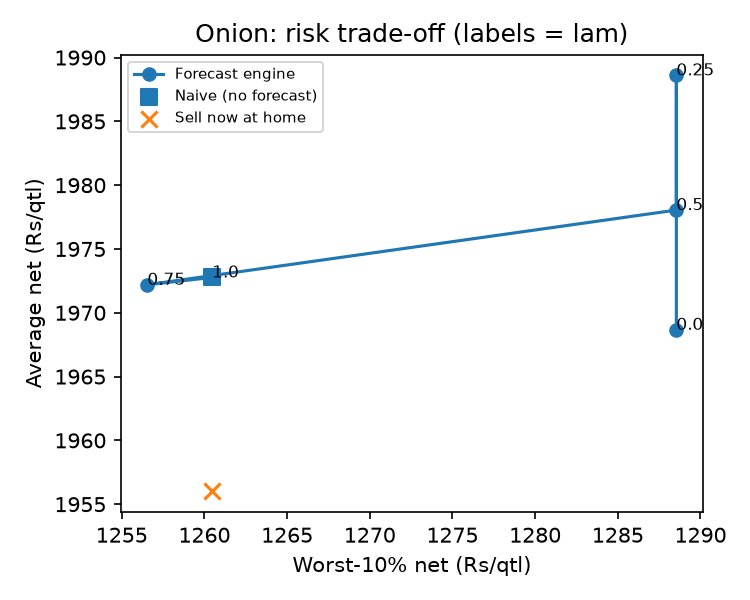
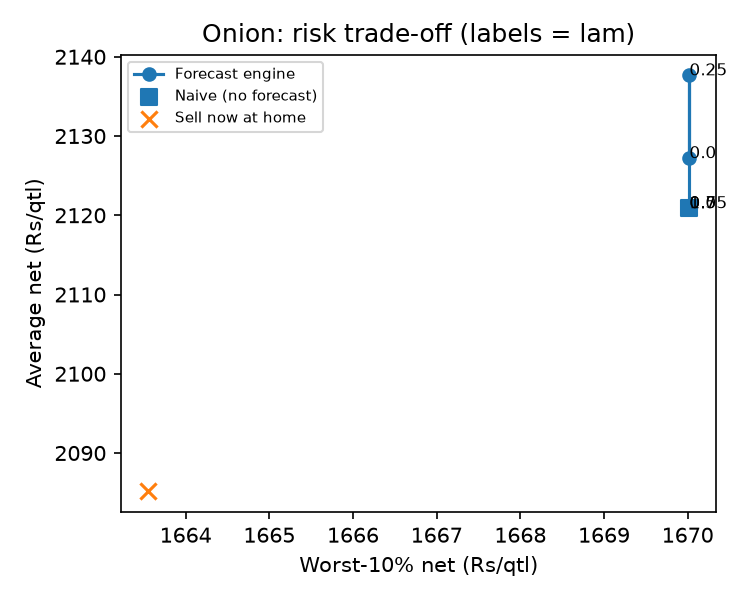
Updated of files

diff --git a/run_multi.py b/run_multi.py
@@ -1,0 +1,72 @@
+import re, glob, os, math, pandas as pd, numpy as np, runpy
+import src.config as C, src.db as db, src.realdata as rd
+
+HOME, RADIUS_KM, MIN_OBS, ROAD = "ALIGARH", 400, 400, 1.3   # edit HOME / RADIUS_KM as you like
+
+# Approximate city coordinates (lat, lon). Add more lines for markets that get reported as missing.
+COORDS = {"DELHI":(28.61,77.21),"ALIGARH":(27.88,78.08),"AGRA":(27.18,78.01),"MUMBAI":(19.08,72.88),
+ "PUNE":(18.52,73.86),"LUCKNOW":(26.85,80.95),"BAREILLY":(28.37,79.43),"KOLHAPUR":(16.70,74.24),
+ "RAJKOT":(22.30,70.80),"SURAT":(21.17,72.83),"HUBLI":(15.36,75.12),"FARUKHABAD":(27.39,79.58),
+ "ETAWAH":(26.78,79.02),"DEORIA":(26.50,83.78),"MAINPURI":(27.23,79.02),"GURGAON":(28.46,77.03),
+ "FARIDABAD":(28.41,77.31),"KANPUR":(26.45,80.35),"JAIPUR":(26.91,75.79),"AHMEDABAD":(23.02,72.57),
+ "NASHIK":(20.00,73.79),"AMRITSAR":(31.63,74.87),"AJMER":(26.45,74.64),"ALWAR":(27.55,76.63),
+ "AHMEDNAGAR":(19.09,74.74),"AURANGABAD":(19.88,75.34),"ALLAHABAD":(25.44,81.85),"BALLIA":(25.76,84.15),
+ "ABOHAR":(30.14,74.19),"ASANSOL":(23.68,86.98),"LASALGAON":(20.14,74.23),"MEERUT":(28.98,77.71)}
+
+def key(name): return re.sub(r"\(.*?\)|[^A-Z ]", "", str(name).upper()).strip()
+def hav(a, b):
+    la1, lo1, la2, lo2 = map(math.radians, (*a, *b))
+    x = math.sin((la2-la1)/2)**2 + math.cos(la1)*math.cos(la2)*math.sin((lo2-lo1)/2)**2
+    return 6371 * 2 * math.asin(math.sqrt(x))
+def crop_name(fn):
+    w = os.path.basename(fn).lower().split("_")[0]
+    w = w[:-2] if w.endswith("oes") else (w[:-1] if w.endswith("s") else w)
+    return w.title()
+
+frames = []
+for p in glob.glob("data/real/*.csv"):
+    b = os.path.basename(p).lower()
+    if "_all_clean" in b or "case_study" in b: continue
+    df = pd.read_csv(p, low_memory=False)
+    find = lambda *k: next((c for c in df.columns if any(x in c.lower() for x in k)), None)
+    dc, mc, pc, ac = find("date"), find("market", "centre", "center"), find("modal"), find("arriv")
+    if not (dc and mc and pc):
+        print("SKIPPED (cannot find date/market/modal columns):", b, list(df.columns)); continue
+    frames.append(pd.DataFrame({
+        "date": pd.to_datetime(df[dc], format="mixed", dayfirst=True, errors="coerce"),
+        "market": df[mc].map(key), "modal": pd.to_numeric(df[pc], errors="coerce"),
+        "arrivals": pd.to_numeric(df[ac], errors="coerce") if ac else np.nan,
+        "commodity": crop_name(p)}))
+al = pd.concat(frames).dropna(subset=["date", "modal"])
+al = al.drop_duplicates(["commodity", "market", "date"])
+
+S, DIST, missing, dropped = {}, {}, set(), []
+for (c, m), g in al.groupby(["commodity", "market"]):
+    if len(g) < MIN_OBS: continue
+    if m not in COORDS: missing.add(m); continue
+    d = round(ROAD * hav(COORDS[HOME], COORDS[m]))
+    if d > RADIUS_KM: continue
+    DIST[m] = d
+    g = g.set_index("date").sort_index()[["modal", "arrivals"]]
+    n_obs = len(g)
+    g = g.asfreq("D").interpolate(method="time", limit=7).dropna(subset=["modal"])
+    g["arrivals"] = g["arrivals"].fillna(g["arrivals"].median())
+    g = g.rename(columns={"modal": "modal_price", "arrivals": "arrivals_qtl"})
+    g["rainfall_mm"] = 0.0; g.index.name = "date"; g.attrs["observed"] = n_obs
+    S[(c, m)] = g[["modal_price", "arrivals_qtl", "rainfall_mm"]]
+
+assump = getattr(C, "ASSUMP", {})
+crops = []
+for c in sorted({c for c, _ in S}):
+    if (c, HOME) not in S: print(f"Skipping {c}: no {HOME} series with >= {MIN_OBS} observed days"); continue
+    if c not in assump: print(f"Skipping {c}: no spoilage/storage entry in ASSUMP in src/config.py"); continue
+    crops.append(c)
+if missing: print("Markets with enough data but no coordinates (add to COORDS):", sorted(missing))
+print("Crops:", crops, "| markets within", RADIUS_KM, "km of", HOME, ":", sorted(DIST))
+
+C.HOME, C.COMMODITIES = HOME, crops
+C.MARKETS = sorted({m for (c, m) in S if c in crops})
+C.DIST_KM = DIST          # approximate road km = 1.3 x straight line  (PLACEHOLDER)
+db.load_from_db = lambda *a, **k: None
+rd.load_real = lambda *a, **k: S
+runpy.run_path("run_day2.py", run_name="__main__")
